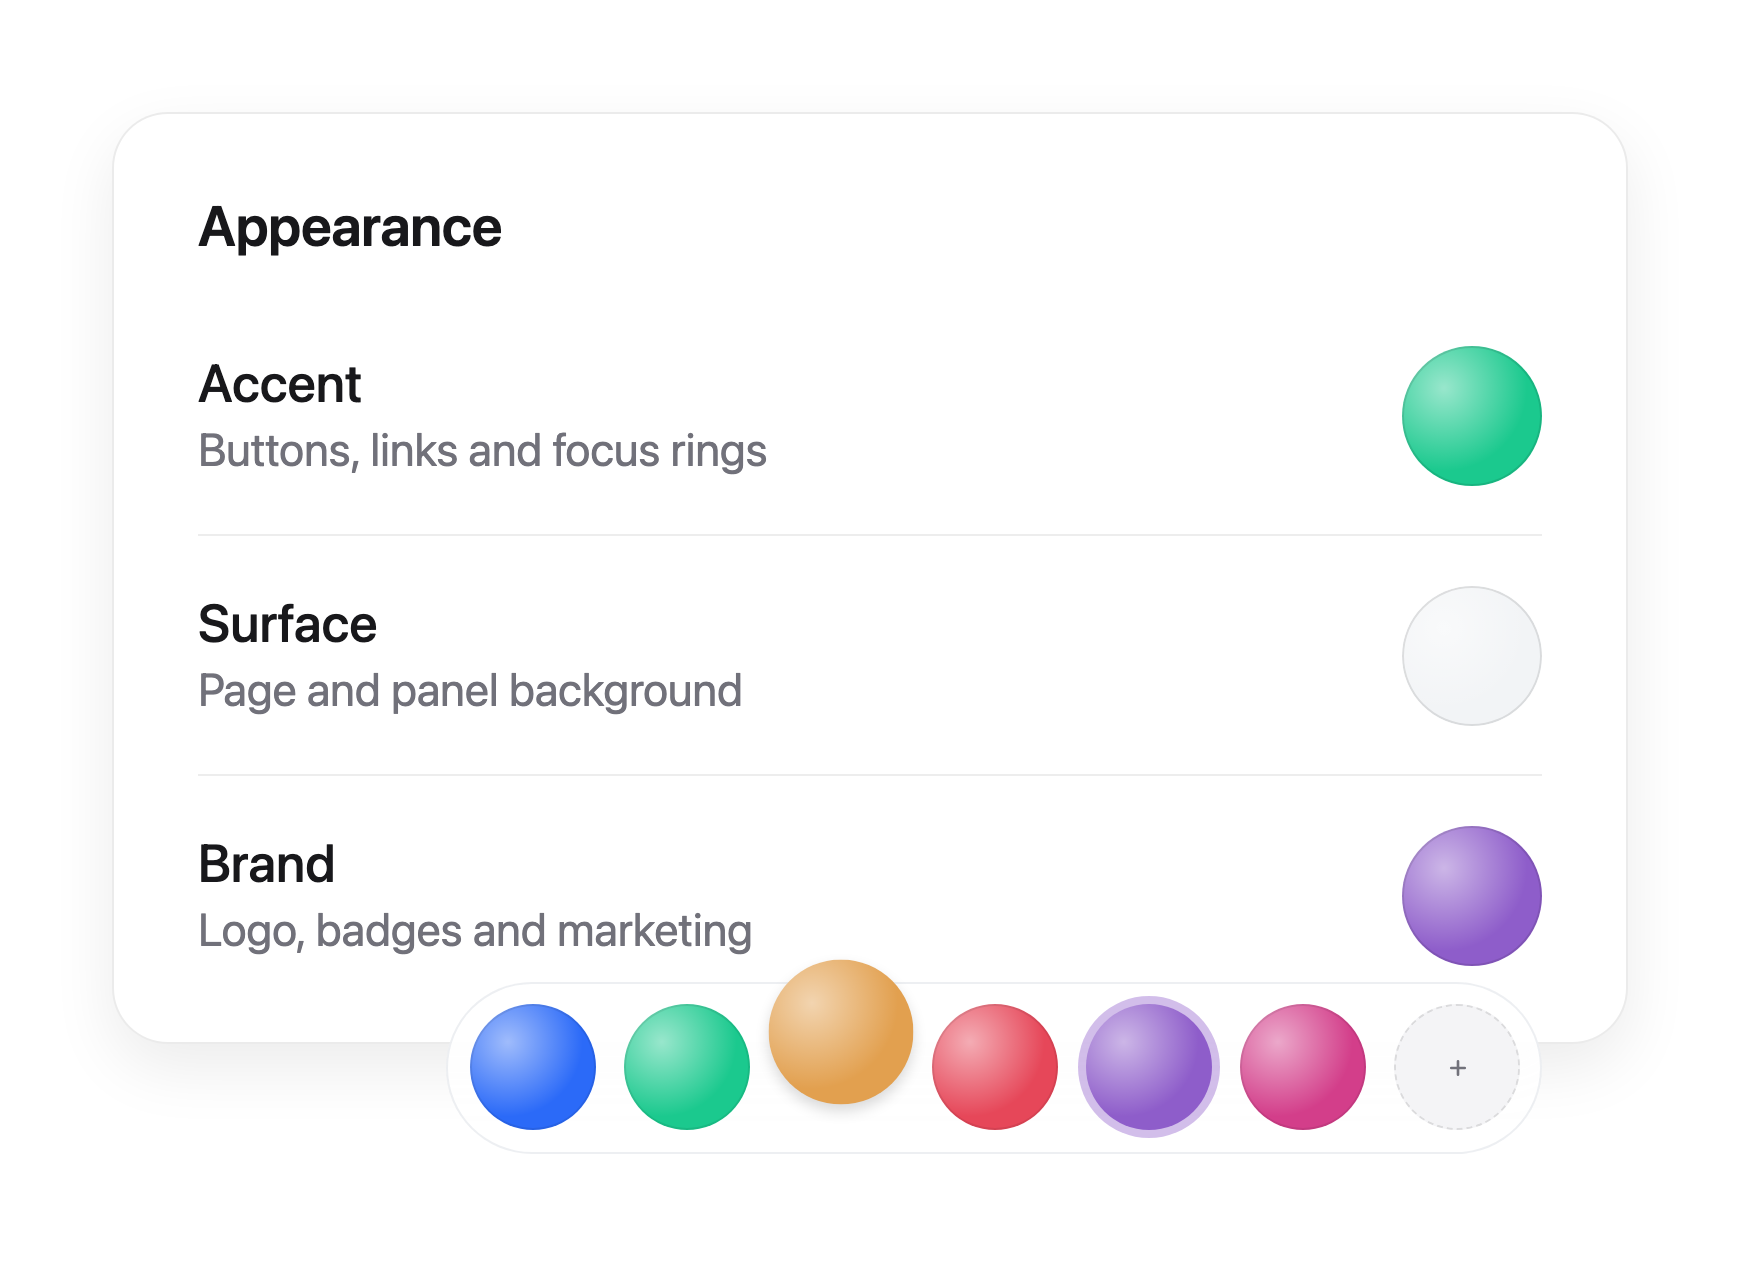
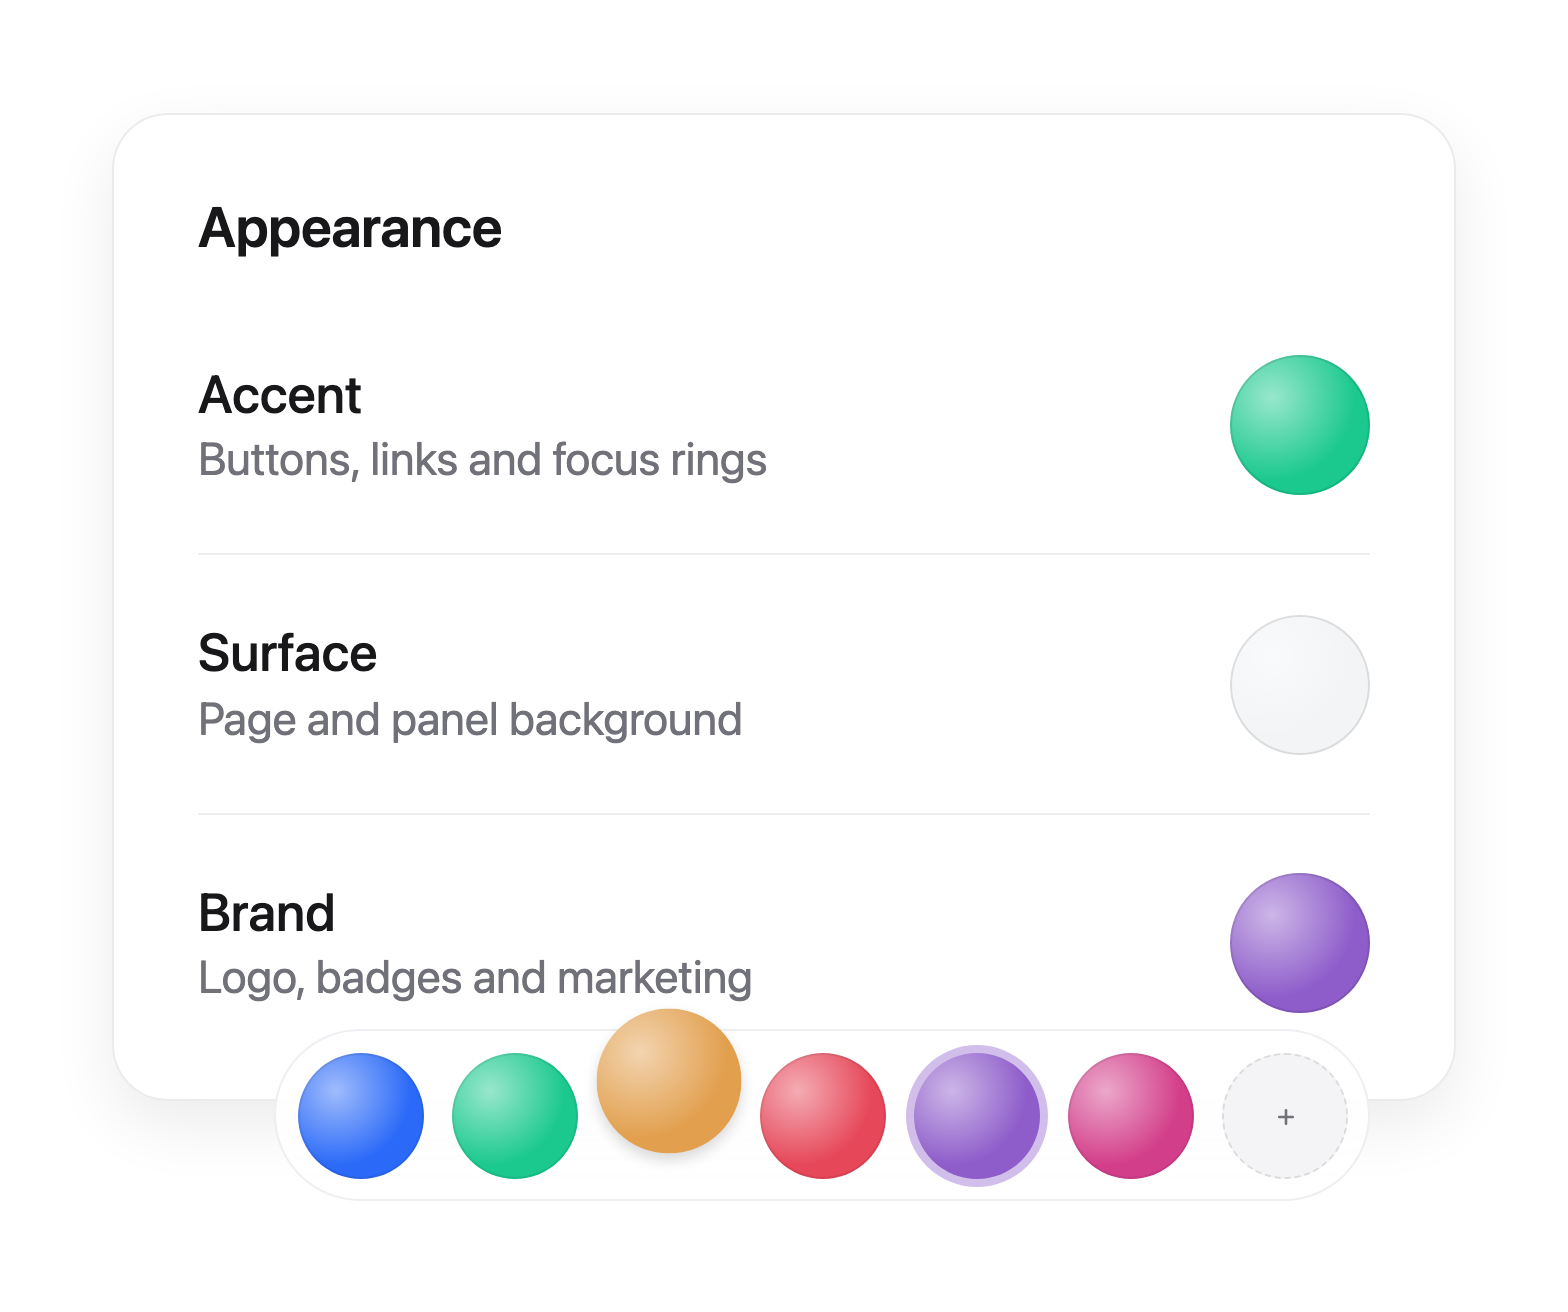
fix(docs): match the two panels' heights and align them
Both containers are now exactly the surface's height and their tops and bottoms
line up; only the tray overhangs, which is what a popover does.

Matched by construction rather than by scaling the images: rendering the same
component at two sizes in one picture would be worse than the mismatch. The
panel is given the surface's height, its rows share what is left, and the hero
draws both shots at one scale computed from their real pixel sizes.

Three things had to be true for that to work, each of which looked like the
whole problem in turn:

- The demo page had no box-sizing reset, so a height was the *content* box and
  padding plus border landed on top — a panel asked for the surface's height
  came out fifty pixels taller, which is the number that would not move however
  the rows were adjusted.
- A flex item will not shrink below its content by default, so the rows pushed
  past the height the panel was given until they were told `min-height: 0`.
- Four rows of two-line descriptions simply did not fit; three do, with room to
  breathe.

diff --git a/playground/src/Demo.vue b/playground/src/Demo.vue
@@ -120,6 +120,7 @@ const brand = ref<string | null>('#8e5dca')
         <ColorPicker
           v-model="brand"
           range="full"
+          placement="bottom-end"
           recent-key="demo:brand"
         />
       </div>
@@ -166,6 +167,15 @@ html {
   font-size: clamp(20px, 2vw, 48px);
 }
 
+/* Without this a height is the *content* box, and padding plus border land on
+   top of it — which is why a panel asked for the surface's height came out
+   fifty pixels taller than it. */
+*,
+*::before,
+*::after {
+  box-sizing: border-box;
+}
+
 /**
  * `?bare` drops the stage so screenshots can be taken with a transparent
  * background. The container keeps its own shadow, so it floats on whatever it
@@ -200,7 +210,16 @@ html.bare .stage {
 /* ─── A. Settings ─────────────────────────────────────────────────────────── */
 
 .panel {
+  /**
+   * Height matched to the surface panel — 16rem wide, and this tall once its
+   * bands, shades, field and footer are stacked — so the two sit level in the
+   * hero. In rem, so it holds at any root size rather than only at the one the
+   * shots happen to be taken at.
+   */
+  display: flex;
+  flex-direction: column;
   width: 24rem;
+  height: 17.67rem;
   padding: 1.25rem 1.5rem 0.5rem;
   border-radius: 1rem;
 }
@@ -212,12 +231,18 @@ html.bare .stage {
   letter-spacing: -0.01em;
 }
 
+/* Rows share whatever height is left, so the panel keeps its size whether it
+   holds three colours or five. `min-height: 0` is what lets them: a flex item
+   defaults to refusing to shrink below its content, which would push the panel
+   past the height it was given. */
 .entry {
   display: flex;
+  flex: 1;
+  min-height: 0;
   align-items: center;
   justify-content: space-between;
   gap: 1.5rem;
-  padding: 0.875rem 0;
+  padding: 0.25rem 0;
 }
 
 /* Hairlines between, not around: the panel's own border closes the group. */
